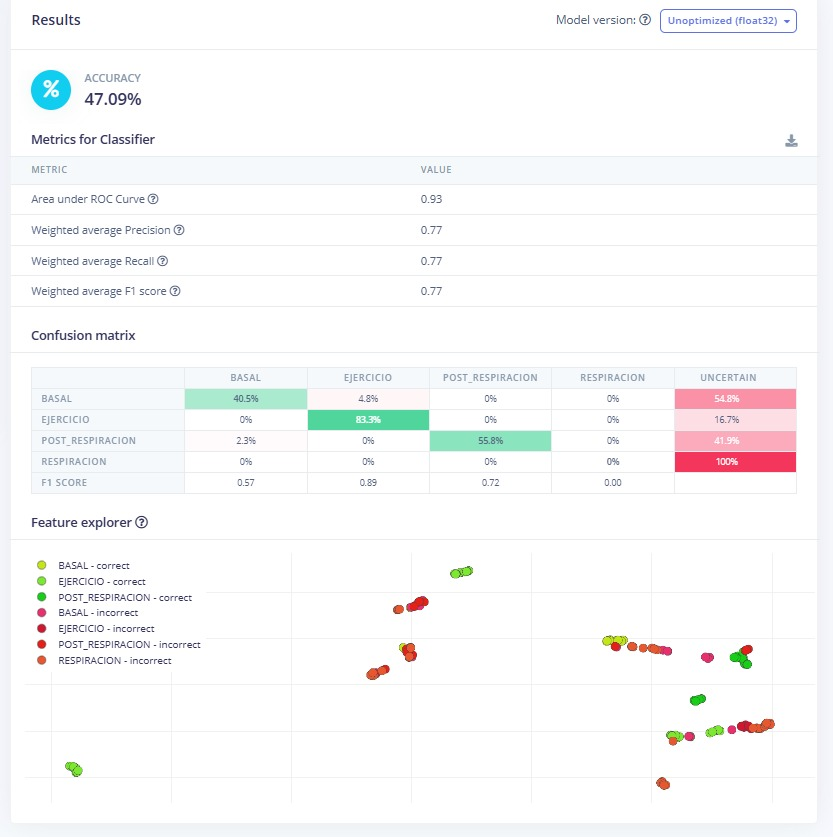
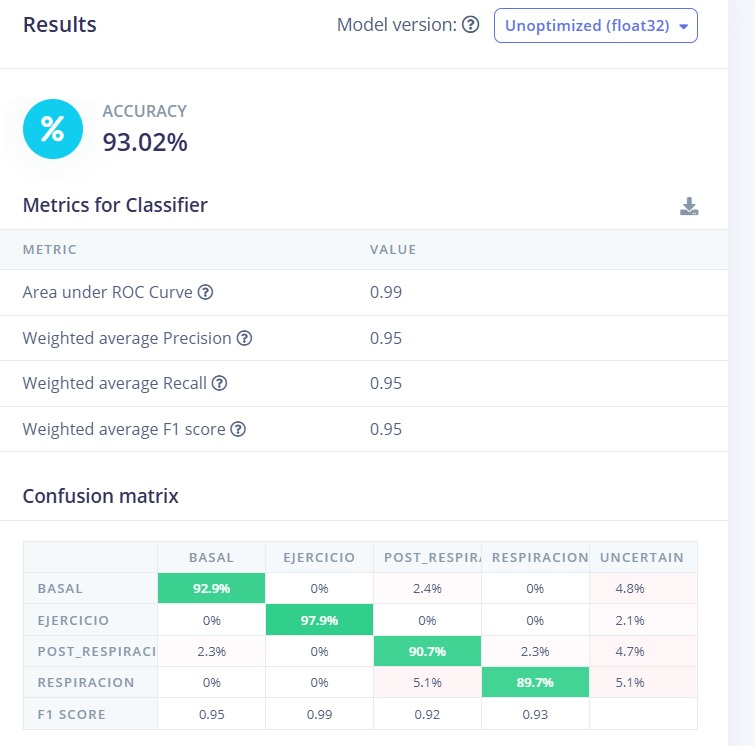
actualizacion fabian

diff --git a/Laboratorios/Laboratorio 13/Fabian/README.md b/Laboratorios/Laboratorio 13/Fabian/README.md
@@ -97,16 +97,22 @@ Parámetros
 #### Imagen 4: Parametros
 ![Parametros](./Imagenes/Parametros.jpeg)
 
+#### Imagen 5: Parametros Resultados 
+![Parametros](./Imagenes/Parametros_2.jpg)
+
 ### 1.3 Classifier <a name="id5"></a>
-#### Imagen 5: Classifier
+#### Imagen 6: Classifier
 ![Classifier](./Imagenes/features.jpeg)
 
 
-#### Imagen 5: Training output
-![Training Output](./Imagenes/Accuracy.jpeg)
+#### Imagen 7: Training output
+![Training Output](./Imagenes/Accuracy_1.jpeg)
+#### Imagen 8: Data Explorer
+![Training Output](./Imagenes/Accuracy_2.jpeg)
+
 
 ### 1.4 Retrain <a name="id6"></a>
-#### Imagen 6: Retraining output
+#### Imagen 9: Retraining output
 ![Retrain](./Imagenes/Retrain.jpeg)
 
 ### 1.4 Model Testing <a name="id7"></a>
@@ -115,5 +121,5 @@ Parámetros
 
 ![Training Output](./Imagenes/Matriz_confusion.jpeg)
 
-Vemos que el Accuracy es de 47.09% lo cual es muy bajo aún, esto se debe a la poca cantidad de data obtenida en el laboratorio, por lo que lo más óptimo sería realizar mayor cantidad de mediciones y en diferentes opciones, no solo 4, como se ha tenido hasta ahora, esto ha generado que haya pocas variaciones y el modelo de aprendizaje sea deficiente.
+Vemos que el Accuracy es de 93.02% lo cual es un poco bajo aún, debido a que debería ser mayor a 95%, esto se debe a la poca cantidad de data obtenida en el laboratorio, por lo que lo más óptimo sería realizar mayor cantidad de mediciones y en diferentes opciones, no solo 4, como se ha tenido hasta ahora, esto ha generado que haya pocas variaciones y el modelo de aprendizaje sea deficiente.
 El proceso de upsampling y downsampling, ha sido contrabeneficioso, aunque necesario, debido a que no se ha contado con la data suficiente.
